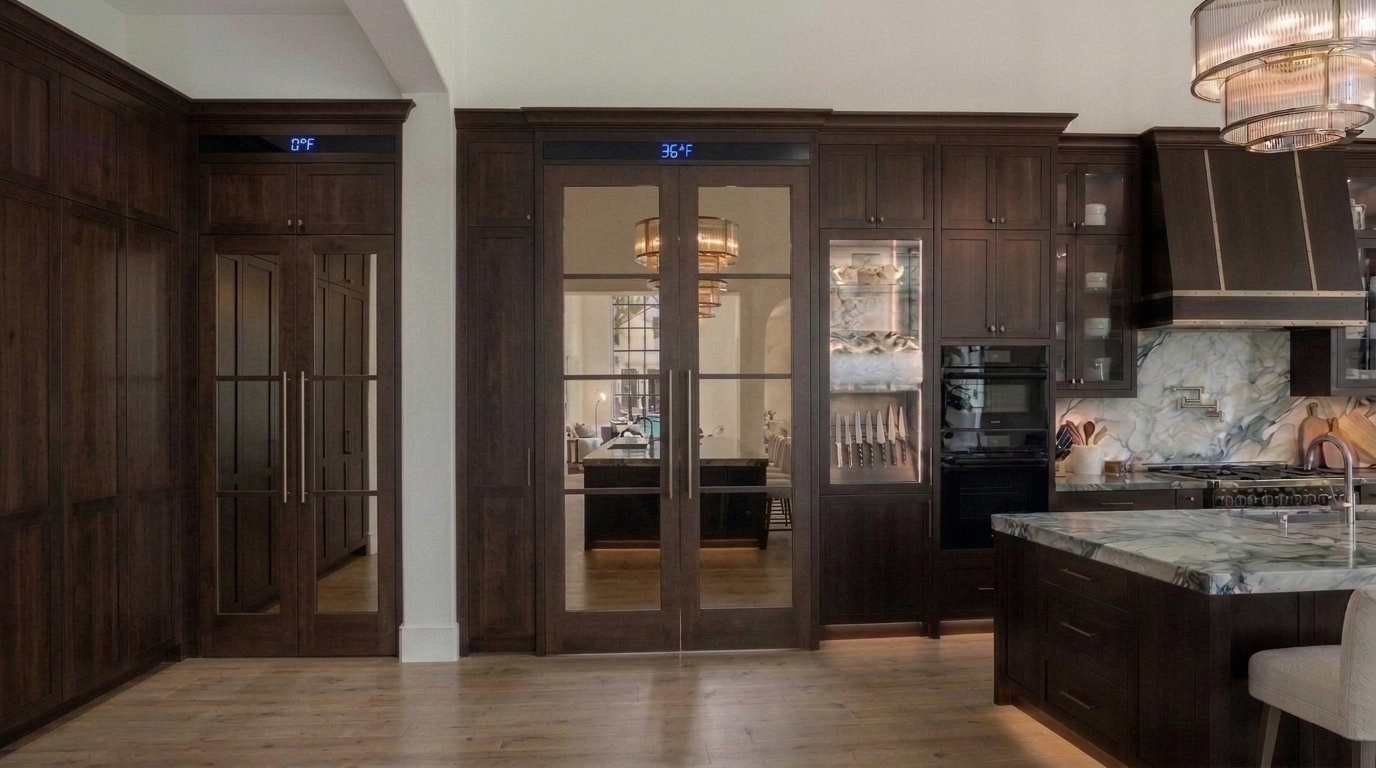
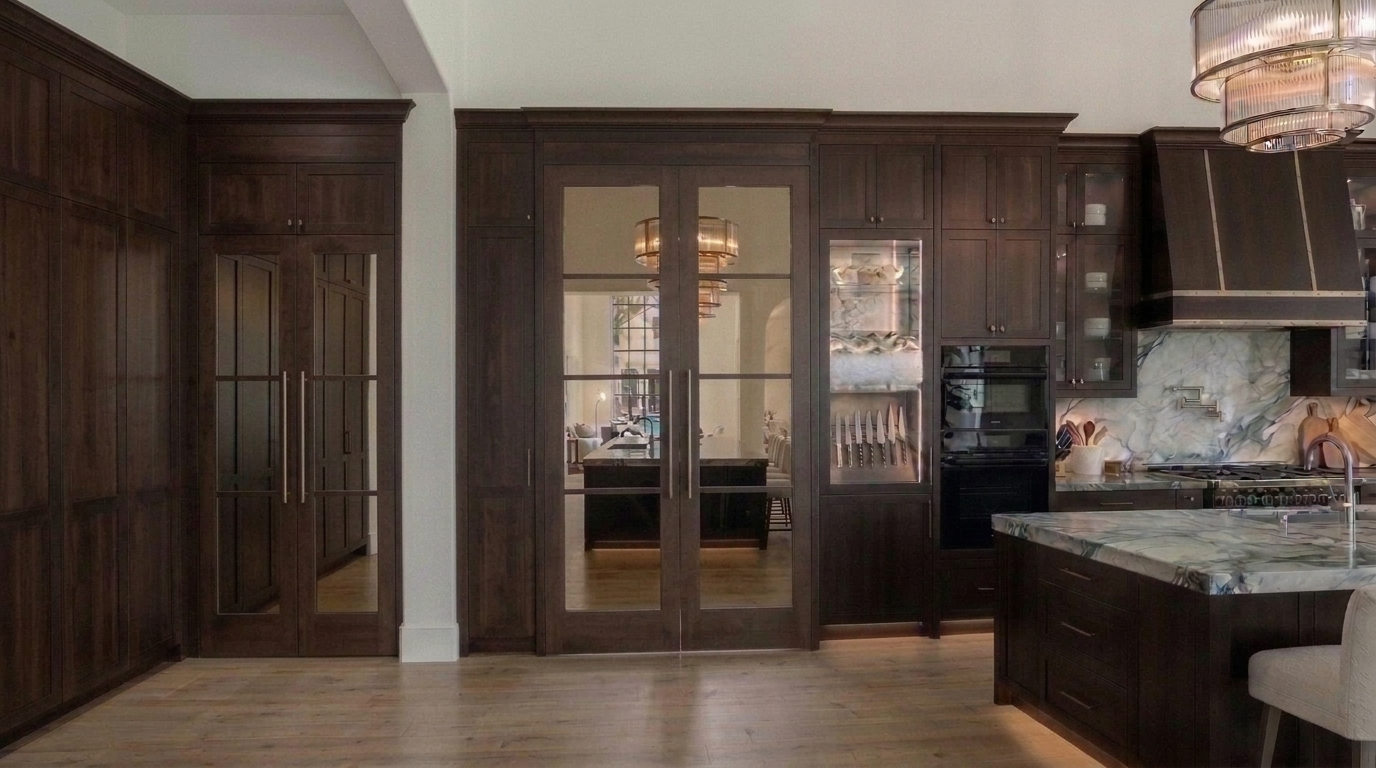
Turn off overhead 0F and 36F digital temperature readout lights when the freezer and walk-in refrigerator doors are closed

Changed region(s): [[0.1562, 0.1562, 0.2812, 0.2188], [0.4062, 0.1562, 0.5938, 0.2188]]

diff --git a/estate_interactive_lookbook_standalone.html b/estate_interactive_lookbook_standalone.html
@@ -1299,15 +1299,15 @@
         ]
       },
       {
-        src: "static/images/01a_living_room_great_room.jpg?v=mirror_fridge_doors_v2",
+        src: "static/images/01a_living_room_great_room.jpg?v=no_temp_lights_v11",
         category: "level1",
-        zone: "Level 1 (Open First Floor: 24' Great Hall ➔ Kitchen — TV & Mirror Walk-In Fridge Closed)",
-        badge: "Level 1 • Soaring 24' Great Hall (Concealed TV Credenza Closed) Looking Into Dark Cherry Kitchen (Two-Way Mirror Walk-In Fridge Closed With Interior Lights OFF)",
-        title: "Open First Floor View 1 (Daily Closed Mode) — Soaring 24-Foot Gallery-White Great Hall (With the True-to-Scale 90\" W × 48\" H Fluted Oak & Travertine Concealed TV Credenza Closed) Looking Into the Dark Cherry Kitchen (With the 14' Walk-In Refrigerator's Two-Way Mirror Doors Closed & Interior Lights OFF)",
-        dims: "38' × 28' Soaring 24' Great Hall • Concealed TV Credenza (Closed) • 14' Walk-In Refrigerator (Closed Mirror Doors, Lights OFF)",
-        desc: "Directly incorporating the soaring open first-floor architecture from the Instagram video (https://www.instagram.com/p/DcL3q3doXhq/): a 24-foot gallery-white Great Hall with towering two-story arched matte-black steel multi-pane cathedral windows, wide-plank and herringbone European white-oak floors, and the true-to-scale 90\" W × 48\" H fluted white-oak and Roman travertine Concealed TV Credenza in its sleek retracted daily state between the curved ivory bouclé sofa and the camel leather daybed—looking straight through the wide-open floor-to-ceiling matte-black steel and glass Crittall sliding grid partition into your Dark Cherry / Mahogany Chef's Kitchen where the 8'6\"-tall French doors of the 14-foot-deep Walk-In Refrigerator (36°F) are closed with their interior lights OFF, turning the door panes into sleek smoked-bronze mirrors.",
+        zone: "Level 1 (Open First Floor: 24' Great Hall ➔ Kitchen — TV & Mirror Walk-In Fridge Closed, Temp Lights OFF)",
+        badge: "Level 1 • Soaring 24' Great Hall (Concealed TV Credenza Closed) Looking Into Dark Cherry Kitchen (Two-Way Mirror Walk-In Fridge Closed With Interior & Temperature Lights OFF)",
+        title: "Open First Floor View 1 (Daily Closed Mode) — Soaring 24-Foot Gallery-White Great Hall (With the True-to-Scale 90\" W × 48\" H Fluted Oak & Travertine Concealed TV Credenza Closed) Looking Into the Dark Cherry Kitchen (With the 14' Walk-In Refrigerator's Two-Way Mirror Doors Closed & Both Interior Lights and Overhead Temperature Lights OFF)",
+        dims: "38' × 28' Soaring 24' Great Hall • Concealed TV Credenza (Closed) • 14' Walk-In Refrigerator (Closed Mirror Doors, All Lights OFF)",
+        desc: "Directly incorporating the soaring open first-floor architecture from the Instagram video (https://www.instagram.com/p/DcL3q3doXhq/): a 24-foot gallery-white Great Hall with towering two-story arched matte-black steel multi-pane cathedral windows, wide-plank and herringbone European white-oak floors, and the true-to-scale 90\" W × 48\" H fluted white-oak and Roman travertine Concealed TV Credenza in its sleek retracted daily state between the curved ivory bouclé sofa and the camel leather daybed—looking straight through the wide-open floor-to-ceiling matte-black steel and glass Crittall sliding grid partition into your Dark Cherry / Mahogany Chef's Kitchen where the 8'6\"-tall French doors of the 14-foot-deep Walk-In Refrigerator are closed with both their interior lights and overhead temperature readout lights switched 100% OFF.",
         highlights: [
-          "Two-Way Mirror Walk-In Fridge Doors (Interior Lights OFF When Closed) + Concealed TV Credenza Closed: When the Walk-In Refrigerator doors on the left of the kitchen wall are closed, the interior cold-room lights switch off automatically so the insulated glass panels act like sleek smoked-bronze mirrors beneath the 36°F readout.",
+          "Two-Way Mirror Walk-In Fridge Doors (Interior & Overhead Temperature Lights OFF When Closed) + Concealed TV Credenza Closed: When the Walk-In Refrigerator doors on the left of the kitchen wall are closed, both the interior cold-room lights and the overhead 36°F digital readout switch off automatically so the insulated glass panels act like sleek smoked-bronze mirrors beneath a clean, unlit dark cherry wood frieze.",
           "3 Wall-Free Zones Around a Single Square Structural Pier: (1) Right Foreground Window Lounge with curved ivory bouclé sofa & striped round coffee table on checkered wool rug; (2) Center Midground Lounge with camel leather daybed & nested organic travertine coffee tables; and (3) Left Midground Open 12-Seat Natural Oak Formal Dining Hall.",
           "Floor-to-Ceiling Black-Steel Crittall Sliding Partition Opening to Dark Cherry Kitchen: Center multi-pane glass panels slide wide open to reveal your Dark Cherry / Mahogany Chef's Kitchen, 22-foot Calacatta Verde/Viola marble island, 60\" range, 32°F Oyster Raw Bar, and China Cabinet Secret Door."
         ]
@@ -1341,15 +1341,15 @@
         ]
       },
       {
-        src: "static/images/01_great_room_kitchen.jpg?v=mirror_fridge_doors_v2",
+        src: "static/images/01_great_room_kitchen.jpg?v=no_temp_lights_v11",
         category: "level1",
-        zone: "Level 1 (Chef's Kitchen Close-Up — Two-Way Mirror Walk-In Refrigerator Closed on Left, 22' Island & Crittall Wall)",
-        badge: "Level 1 • Preserved Dark Cherry / Mahogany Kitchen With the Custom 36°F Walk-In Refrigerator's Two-Way Mirror Doors Closed Flush on the Left Wall (Interior Lights OFF)",
-        title: "Open First Floor View 3 (Chef's Kitchen Wide View — Two-Way Mirror Walk-In Refrigerator Closed on Far Left With Interior Lights OFF) — Custom Built-In Dark Cherry 36°F Walk-In Refrigerator With 8'6\" Smoked-Bronze Mirror French Doors Closed on the Far Left, 60\" Range, 22-Foot Calacatta Verde/Viola Island & Concealed TV Credenza in the Great Hall",
-        dims: "36' × 26' Dark Cherry Kitchen • Built-In 36°F Walk-In Refrigerator (Closed Mirror Doors, Lights OFF) • 22' Calacatta Verde/Viola Island",
-        desc: "Wide architectural view of your preserved 36' × 26' open-concept Elite Chef's Kitchen looking toward the Back-of-Home Pool Doors—showing the Custom Built-In Dark Cherry / Mahogany Walk-In Refrigerator (36°F) on the far-left wall in its sleek CLOSED state: just like the Instagram video (De9XZ39x8aN), the interior cold-room lights turn completely OFF when the doors close so the towering 8'6\" dark-cherry French doors act as sleek smoked-bronze mirrors reflecting the tiered ribbed-glass chandelier, the marble island, and the warm oak floor. To its right sit the 60\" black-and-brass range, the built-in China Cabinet secret Speakeasy door next to the Back Pool Doors, the 22-foot Calacatta Verde/Viola marble island in the center, and on the right through the open Crittall glass partition, the Camel Leather Daybed and the 90\" W × 48\" H Fluted Oak & Travertine Concealed TV Credenza.",
+        zone: "Level 1 (Chef's Kitchen Close-Up — Two-Way Mirror Walk-In Refrigerator Closed on Left, Temp Light OFF)",
+        badge: "Level 1 • Preserved Dark Cherry / Mahogany Kitchen With the Custom Walk-In Refrigerator's Two-Way Mirror Doors Closed Flush on the Left Wall (Interior & Temperature Lights OFF)",
+        title: "Open First Floor View 3 (Chef's Kitchen Wide View — Two-Way Mirror Walk-In Refrigerator Closed on Far Left With Interior & Temperature Lights OFF) — Custom Built-In Dark Cherry Walk-In Refrigerator With 8'6\" Smoked-Bronze Mirror French Doors Closed on the Far Left, 60\" Range, 22-Foot Calacatta Verde/Viola Island & Concealed TV Credenza in the Great Hall",
+        dims: "36' × 26' Dark Cherry Kitchen • Built-In Walk-In Refrigerator (Closed Mirror Doors, All Lights OFF) • 22' Calacatta Verde/Viola Island",
+        desc: "Wide architectural view of your preserved 36' × 26' open-concept Elite Chef's Kitchen looking toward the Back-of-Home Pool Doors—showing the Custom Built-In Dark Cherry / Mahogany Walk-In Refrigerator on the far-left wall in its sleek CLOSED state: both the interior cold-room lights and the overhead digital temperature readout turn completely OFF when the doors close, so the towering 8'6\" dark-cherry French doors act as sleek smoked-bronze mirrors beneath a clean, unlit dark cherry wood frieze. To its right sit the 60\" black-and-brass range, the built-in China Cabinet secret Speakeasy door next to the Back Pool Doors, the 22-foot Calacatta Verde/Viola marble island in the center, and on the right through the open Crittall glass partition, the Camel Leather Daybed and the 90\" W × 48\" H Fluted Oak & Travertine Concealed TV Credenza.",
         highlights: [
-          "Two-Way Mirror Walk-In Refrigerator Doors (Interior Lights OFF When Closed — Far-Left Wall): Because the interior lights only come on when the door opens, the closed 8'6\" dark-cherry French doors look like sleek smoked-bronze mirrors beneath the 36°F LED readout, reflecting the kitchen chandelier and island.",
+          "Two-Way Mirror Walk-In Refrigerator Doors (Interior & Overhead Temperature Lights OFF When Closed — Far-Left Wall): Because both the interior lights and the digital temperature readout only come on when the doors open, the closed 8'6\" dark-cherry French doors look like sleek smoked-bronze mirrors beneath a clean, solid dark cherry wood frieze.",
           "Extra-Long 22-Foot Calacatta Verde / Viola Stone Slab Island, Built-In China Cabinet Secret Door & Back-of-Home Pool View: Monumental single-span stone slab on a dark cherry / mahogany base with warm LED toe-kick lighting, 6 plush cream upholstered barstools, tiered fluted-glass & brass drum chandelier, 60\" black-and-brass range, and the built-in dark cherry China Cabinet secret door next to the back pool doors.",
           "Seamless Indoor-Outdoor & Great Hall Flow on the Right: Floor-to-ceiling matte-black steel & glass Crittall sliding grid partition wall opens directly to the Barrel-Vaulted Pearlescent Moroccan Zellige-Tile Loggia, the Resort Swimming Pool, and the soaring 24-foot Great Hall (showing the Concealed TV Credenza between the Daybed and Curved Bouclé Sofa)."
         ]
@@ -1845,17 +1845,17 @@
         ]
       },
       {
-        src: "static/images/01f_kitchen_walk_in_refrigerator_closed.jpg?v=freezer_and_fridge_v10",
+        src: "static/images/01f_kitchen_walk_in_refrigerator_closed.jpg?v=no_temp_lights_v11",
         category: "level1",
-        zone: "Level 1 (Chef's Kitchen — Built-In 0°F Freezer on Left of Pillar + 36°F 14' Walk-In Refrigerator on Right of Pillar — BOTH CLOSED Like Mirrors, Lights OFF)",
-        badge: "Level 1 • Built-In 0°F Freezer Unit (Left of Pillar) + 36°F 14-Foot-Deep Walk-In Refrigerator (Right of Pillar) — CLOSED State With Two-Way Mirror Doors & Interior Lights OFF",
-        title: "Custom Built-In Dark Cherry / Mahogany 0°F Freezer Unit (Left of Pillar) + 36°F 14-Foot-Deep Walk-In Refrigerator (Right of Pillar) — CLOSED State Where Interior Lights Turn OFF So Both Sets of Doors Look Like Sleek Two-Way Smoked-Bronze Mirrors",
-        dims: "0°F Built-In Freezer (Left of Pillar) + 36°F Walk-In Cold Room (Right of Pillar) • Two-Way Smoked-Bronze Mirror Doors (Interior Lights OFF When Closed)",
-        desc: "Exact 1:1 matching view showing both the Custom Built-In 0°F Freezer Unit (left of the white pillar) and the 36°F 14-Foot-Deep Walk-In Refrigerator (right of the white pillar) with their twin 8'6\"-tall dark cherry French doors CLOSED flush: when closed, the interior lights in both the 0°F Freezer and the 36°F Walk-In Refrigerator switch 100% OFF automatically, transforming all 8 glass panes on each unit into sleek, opaque two-way smoked-bronze mirrors that reflect the tiered ribbed-glass chandelier, the 22-foot Calacatta marble island, and the warm oak floor.",
+        zone: "Level 1 (Chef's Kitchen — Built-In 0°F Freezer on Left of Pillar + 36°F 14' Walk-In Refrigerator on Right of Pillar — BOTH CLOSED Like Mirrors, Interior & Temperature Lights OFF)",
+        badge: "Level 1 • Built-In Freezer Unit (Left of Pillar) + 14-Foot-Deep Walk-In Refrigerator (Right of Pillar) — CLOSED State With Two-Way Mirror Doors & Both Interior and Overhead Temperature Lights OFF",
+        title: "Custom Built-In Dark Cherry / Mahogany Freezer Unit (Left of Pillar) + 14-Foot-Deep Walk-In Refrigerator (Right of Pillar) — CLOSED State Where Both the Interior Lights and the Overhead Digital Temperature Readout Lights Turn OFF So Both Units Look Like Sleek Two-Way Smoked-Bronze Mirrors",
+        dims: "Built-In Freezer (Left of Pillar) + Walk-In Cold Room (Right of Pillar) • Two-Way Smoked-Bronze Mirror Doors (Interior & Temperature Lights OFF When Closed)",
+        desc: "Exact 1:1 matching view showing both the Custom Built-In Freezer Unit (left of the white pillar) and the 14-Foot-Deep Walk-In Refrigerator (right of the white pillar) with their twin 8'6\"-tall dark cherry French doors CLOSED flush: when closed, both the interior cold-room lights AND the overhead 0°F / 36°F digital temperature readout lights in the dark cherry wood frieze switch 100% OFF automatically—leaving clean, uninterrupted dark cherry wood headers above and transforming all 8 glass panes on each unit into sleek, opaque two-way smoked-bronze mirrors that reflect the tiered ribbed-glass chandelier, the 22-foot Calacatta marble island, and the warm oak floor.",
         highlights: [
-          "Matching Two-Way Smoked-Bronze Mirror Doors on Both Sides of the Pillar: With the interior lights OFF when closed, both the 0°F Built-In Freezer (left of pillar) and the 36°F Walk-In Refrigerator (right of pillar) present identical, seamless dark-cherry and smoked-bronze mirror facades.",
-          "1:1 Matching Open vs. Closed Comparison (Compare Slide 40 & Slide 41): Toggle between Slide 40 (Both Open — Interior Lights ON) and Slide 41 (Both Closed — Interior Lights OFF, Mirror Finish) to see the exact transformation.",
-          "Preserves 100% of the Main Cooking Wall: Placing the 0°F Built-In Freezer on the left side of the pillar keeps the 32°F Chilled Oyster Raw Bar, Miele double ovens, 60\" black-and-brass range, and China Cabinet secret door completely untouched."
+          "Both Interior Lights & Overhead Temperature Readout Lights Turn 100% OFF When Closed: When the doors close on the Freezer (left of pillar) and Walk-In Refrigerator (right of pillar), the 0°F and 36°F digital displays above the doors turn completely off along with the interior LEDs, presenting clean dark-cherry wood headers and smoked-bronze mirror doors.",
+          "1:1 Matching Open vs. Closed Comparison (Compare Slide 40 & Slide 41): Toggle between Slide 40 (Both Open — Interior & 0°F / 36°F Readout Lights ON) and Slide 41 (Both Closed — Interior & Temperature Lights OFF, Mirror Finish) to see the exact transformation.",
+          "Preserves 100% of the Main Cooking Wall: Placing the Built-In Freezer on the left side of the pillar keeps the illuminated 32°F Chilled Oyster Raw Bar, Miele double ovens, 60\" black-and-brass range, and China Cabinet secret door completely untouched."
         ]
       }
     ];

diff --git a/index.html b/index.html
@@ -1299,15 +1299,15 @@
         ]
       },
       {
-        src: "static/images/01a_living_room_great_room.jpg?v=mirror_fridge_doors_v2",
+        src: "static/images/01a_living_room_great_room.jpg?v=no_temp_lights_v11",
         category: "level1",
-        zone: "Level 1 (Open First Floor: 24' Great Hall ➔ Kitchen — TV & Mirror Walk-In Fridge Closed)",
-        badge: "Level 1 • Soaring 24' Great Hall (Concealed TV Credenza Closed) Looking Into Dark Cherry Kitchen (Two-Way Mirror Walk-In Fridge Closed With Interior Lights OFF)",
-        title: "Open First Floor View 1 (Daily Closed Mode) — Soaring 24-Foot Gallery-White Great Hall (With the True-to-Scale 90\" W × 48\" H Fluted Oak & Travertine Concealed TV Credenza Closed) Looking Into the Dark Cherry Kitchen (With the 14' Walk-In Refrigerator's Two-Way Mirror Doors Closed & Interior Lights OFF)",
-        dims: "38' × 28' Soaring 24' Great Hall • Concealed TV Credenza (Closed) • 14' Walk-In Refrigerator (Closed Mirror Doors, Lights OFF)",
-        desc: "Directly incorporating the soaring open first-floor architecture from the Instagram video (https://www.instagram.com/p/DcL3q3doXhq/): a 24-foot gallery-white Great Hall with towering two-story arched matte-black steel multi-pane cathedral windows, wide-plank and herringbone European white-oak floors, and the true-to-scale 90\" W × 48\" H fluted white-oak and Roman travertine Concealed TV Credenza in its sleek retracted daily state between the curved ivory bouclé sofa and the camel leather daybed—looking straight through the wide-open floor-to-ceiling matte-black steel and glass Crittall sliding grid partition into your Dark Cherry / Mahogany Chef's Kitchen where the 8'6\"-tall French doors of the 14-foot-deep Walk-In Refrigerator (36°F) are closed with their interior lights OFF, turning the door panes into sleek smoked-bronze mirrors.",
+        zone: "Level 1 (Open First Floor: 24' Great Hall ➔ Kitchen — TV & Mirror Walk-In Fridge Closed, Temp Lights OFF)",
+        badge: "Level 1 • Soaring 24' Great Hall (Concealed TV Credenza Closed) Looking Into Dark Cherry Kitchen (Two-Way Mirror Walk-In Fridge Closed With Interior & Temperature Lights OFF)",
+        title: "Open First Floor View 1 (Daily Closed Mode) — Soaring 24-Foot Gallery-White Great Hall (With the True-to-Scale 90\" W × 48\" H Fluted Oak & Travertine Concealed TV Credenza Closed) Looking Into the Dark Cherry Kitchen (With the 14' Walk-In Refrigerator's Two-Way Mirror Doors Closed & Both Interior Lights and Overhead Temperature Lights OFF)",
+        dims: "38' × 28' Soaring 24' Great Hall • Concealed TV Credenza (Closed) • 14' Walk-In Refrigerator (Closed Mirror Doors, All Lights OFF)",
+        desc: "Directly incorporating the soaring open first-floor architecture from the Instagram video (https://www.instagram.com/p/DcL3q3doXhq/): a 24-foot gallery-white Great Hall with towering two-story arched matte-black steel multi-pane cathedral windows, wide-plank and herringbone European white-oak floors, and the true-to-scale 90\" W × 48\" H fluted white-oak and Roman travertine Concealed TV Credenza in its sleek retracted daily state between the curved ivory bouclé sofa and the camel leather daybed—looking straight through the wide-open floor-to-ceiling matte-black steel and glass Crittall sliding grid partition into your Dark Cherry / Mahogany Chef's Kitchen where the 8'6\"-tall French doors of the 14-foot-deep Walk-In Refrigerator are closed with both their interior lights and overhead temperature readout lights switched 100% OFF.",
         highlights: [
-          "Two-Way Mirror Walk-In Fridge Doors (Interior Lights OFF When Closed) + Concealed TV Credenza Closed: When the Walk-In Refrigerator doors on the left of the kitchen wall are closed, the interior cold-room lights switch off automatically so the insulated glass panels act like sleek smoked-bronze mirrors beneath the 36°F readout.",
+          "Two-Way Mirror Walk-In Fridge Doors (Interior & Overhead Temperature Lights OFF When Closed) + Concealed TV Credenza Closed: When the Walk-In Refrigerator doors on the left of the kitchen wall are closed, both the interior cold-room lights and the overhead 36°F digital readout switch off automatically so the insulated glass panels act like sleek smoked-bronze mirrors beneath a clean, unlit dark cherry wood frieze.",
           "3 Wall-Free Zones Around a Single Square Structural Pier: (1) Right Foreground Window Lounge with curved ivory bouclé sofa & striped round coffee table on checkered wool rug; (2) Center Midground Lounge with camel leather daybed & nested organic travertine coffee tables; and (3) Left Midground Open 12-Seat Natural Oak Formal Dining Hall.",
           "Floor-to-Ceiling Black-Steel Crittall Sliding Partition Opening to Dark Cherry Kitchen: Center multi-pane glass panels slide wide open to reveal your Dark Cherry / Mahogany Chef's Kitchen, 22-foot Calacatta Verde/Viola marble island, 60\" range, 32°F Oyster Raw Bar, and China Cabinet Secret Door."
         ]
@@ -1341,15 +1341,15 @@
         ]
       },
       {
-        src: "static/images/01_great_room_kitchen.jpg?v=mirror_fridge_doors_v2",
+        src: "static/images/01_great_room_kitchen.jpg?v=no_temp_lights_v11",
         category: "level1",
-        zone: "Level 1 (Chef's Kitchen Close-Up — Two-Way Mirror Walk-In Refrigerator Closed on Left, 22' Island & Crittall Wall)",
-        badge: "Level 1 • Preserved Dark Cherry / Mahogany Kitchen With the Custom 36°F Walk-In Refrigerator's Two-Way Mirror Doors Closed Flush on the Left Wall (Interior Lights OFF)",
-        title: "Open First Floor View 3 (Chef's Kitchen Wide View — Two-Way Mirror Walk-In Refrigerator Closed on Far Left With Interior Lights OFF) — Custom Built-In Dark Cherry 36°F Walk-In Refrigerator With 8'6\" Smoked-Bronze Mirror French Doors Closed on the Far Left, 60\" Range, 22-Foot Calacatta Verde/Viola Island & Concealed TV Credenza in the Great Hall",
-        dims: "36' × 26' Dark Cherry Kitchen • Built-In 36°F Walk-In Refrigerator (Closed Mirror Doors, Lights OFF) • 22' Calacatta Verde/Viola Island",
-        desc: "Wide architectural view of your preserved 36' × 26' open-concept Elite Chef's Kitchen looking toward the Back-of-Home Pool Doors—showing the Custom Built-In Dark Cherry / Mahogany Walk-In Refrigerator (36°F) on the far-left wall in its sleek CLOSED state: just like the Instagram video (De9XZ39x8aN), the interior cold-room lights turn completely OFF when the doors close so the towering 8'6\" dark-cherry French doors act as sleek smoked-bronze mirrors reflecting the tiered ribbed-glass chandelier, the marble island, and the warm oak floor. To its right sit the 60\" black-and-brass range, the built-in China Cabinet secret Speakeasy door next to the Back Pool Doors, the 22-foot Calacatta Verde/Viola marble island in the center, and on the right through the open Crittall glass partition, the Camel Leather Daybed and the 90\" W × 48\" H Fluted Oak & Travertine Concealed TV Credenza.",
+        zone: "Level 1 (Chef's Kitchen Close-Up — Two-Way Mirror Walk-In Refrigerator Closed on Left, Temp Light OFF)",
+        badge: "Level 1 • Preserved Dark Cherry / Mahogany Kitchen With the Custom Walk-In Refrigerator's Two-Way Mirror Doors Closed Flush on the Left Wall (Interior & Temperature Lights OFF)",
+        title: "Open First Floor View 3 (Chef's Kitchen Wide View — Two-Way Mirror Walk-In Refrigerator Closed on Far Left With Interior & Temperature Lights OFF) — Custom Built-In Dark Cherry Walk-In Refrigerator With 8'6\" Smoked-Bronze Mirror French Doors Closed on the Far Left, 60\" Range, 22-Foot Calacatta Verde/Viola Island & Concealed TV Credenza in the Great Hall",
+        dims: "36' × 26' Dark Cherry Kitchen • Built-In Walk-In Refrigerator (Closed Mirror Doors, All Lights OFF) • 22' Calacatta Verde/Viola Island",
+        desc: "Wide architectural view of your preserved 36' × 26' open-concept Elite Chef's Kitchen looking toward the Back-of-Home Pool Doors—showing the Custom Built-In Dark Cherry / Mahogany Walk-In Refrigerator on the far-left wall in its sleek CLOSED state: both the interior cold-room lights and the overhead digital temperature readout turn completely OFF when the doors close, so the towering 8'6\" dark-cherry French doors act as sleek smoked-bronze mirrors beneath a clean, unlit dark cherry wood frieze. To its right sit the 60\" black-and-brass range, the built-in China Cabinet secret Speakeasy door next to the Back Pool Doors, the 22-foot Calacatta Verde/Viola marble island in the center, and on the right through the open Crittall glass partition, the Camel Leather Daybed and the 90\" W × 48\" H Fluted Oak & Travertine Concealed TV Credenza.",
         highlights: [
-          "Two-Way Mirror Walk-In Refrigerator Doors (Interior Lights OFF When Closed — Far-Left Wall): Because the interior lights only come on when the door opens, the closed 8'6\" dark-cherry French doors look like sleek smoked-bronze mirrors beneath the 36°F LED readout, reflecting the kitchen chandelier and island.",
+          "Two-Way Mirror Walk-In Refrigerator Doors (Interior & Overhead Temperature Lights OFF When Closed — Far-Left Wall): Because both the interior lights and the digital temperature readout only come on when the doors open, the closed 8'6\" dark-cherry French doors look like sleek smoked-bronze mirrors beneath a clean, solid dark cherry wood frieze.",
           "Extra-Long 22-Foot Calacatta Verde / Viola Stone Slab Island, Built-In China Cabinet Secret Door & Back-of-Home Pool View: Monumental single-span stone slab on a dark cherry / mahogany base with warm LED toe-kick lighting, 6 plush cream upholstered barstools, tiered fluted-glass & brass drum chandelier, 60\" black-and-brass range, and the built-in dark cherry China Cabinet secret door next to the back pool doors.",
           "Seamless Indoor-Outdoor & Great Hall Flow on the Right: Floor-to-ceiling matte-black steel & glass Crittall sliding grid partition wall opens directly to the Barrel-Vaulted Pearlescent Moroccan Zellige-Tile Loggia, the Resort Swimming Pool, and the soaring 24-foot Great Hall (showing the Concealed TV Credenza between the Daybed and Curved Bouclé Sofa)."
         ]
@@ -1845,17 +1845,17 @@
         ]
       },
       {
-        src: "static/images/01f_kitchen_walk_in_refrigerator_closed.jpg?v=freezer_and_fridge_v10",
+        src: "static/images/01f_kitchen_walk_in_refrigerator_closed.jpg?v=no_temp_lights_v11",
         category: "level1",
-        zone: "Level 1 (Chef's Kitchen — Built-In 0°F Freezer on Left of Pillar + 36°F 14' Walk-In Refrigerator on Right of Pillar — BOTH CLOSED Like Mirrors, Lights OFF)",
-        badge: "Level 1 • Built-In 0°F Freezer Unit (Left of Pillar) + 36°F 14-Foot-Deep Walk-In Refrigerator (Right of Pillar) — CLOSED State With Two-Way Mirror Doors & Interior Lights OFF",
-        title: "Custom Built-In Dark Cherry / Mahogany 0°F Freezer Unit (Left of Pillar) + 36°F 14-Foot-Deep Walk-In Refrigerator (Right of Pillar) — CLOSED State Where Interior Lights Turn OFF So Both Sets of Doors Look Like Sleek Two-Way Smoked-Bronze Mirrors",
-        dims: "0°F Built-In Freezer (Left of Pillar) + 36°F Walk-In Cold Room (Right of Pillar) • Two-Way Smoked-Bronze Mirror Doors (Interior Lights OFF When Closed)",
-        desc: "Exact 1:1 matching view showing both the Custom Built-In 0°F Freezer Unit (left of the white pillar) and the 36°F 14-Foot-Deep Walk-In Refrigerator (right of the white pillar) with their twin 8'6\"-tall dark cherry French doors CLOSED flush: when closed, the interior lights in both the 0°F Freezer and the 36°F Walk-In Refrigerator switch 100% OFF automatically, transforming all 8 glass panes on each unit into sleek, opaque two-way smoked-bronze mirrors that reflect the tiered ribbed-glass chandelier, the 22-foot Calacatta marble island, and the warm oak floor.",
+        zone: "Level 1 (Chef's Kitchen — Built-In 0°F Freezer on Left of Pillar + 36°F 14' Walk-In Refrigerator on Right of Pillar — BOTH CLOSED Like Mirrors, Interior & Temperature Lights OFF)",
+        badge: "Level 1 • Built-In Freezer Unit (Left of Pillar) + 14-Foot-Deep Walk-In Refrigerator (Right of Pillar) — CLOSED State With Two-Way Mirror Doors & Both Interior and Overhead Temperature Lights OFF",
+        title: "Custom Built-In Dark Cherry / Mahogany Freezer Unit (Left of Pillar) + 14-Foot-Deep Walk-In Refrigerator (Right of Pillar) — CLOSED State Where Both the Interior Lights and the Overhead Digital Temperature Readout Lights Turn OFF So Both Units Look Like Sleek Two-Way Smoked-Bronze Mirrors",
+        dims: "Built-In Freezer (Left of Pillar) + Walk-In Cold Room (Right of Pillar) • Two-Way Smoked-Bronze Mirror Doors (Interior & Temperature Lights OFF When Closed)",
+        desc: "Exact 1:1 matching view showing both the Custom Built-In Freezer Unit (left of the white pillar) and the 14-Foot-Deep Walk-In Refrigerator (right of the white pillar) with their twin 8'6\"-tall dark cherry French doors CLOSED flush: when closed, both the interior cold-room lights AND the overhead 0°F / 36°F digital temperature readout lights in the dark cherry wood frieze switch 100% OFF automatically—leaving clean, uninterrupted dark cherry wood headers above and transforming all 8 glass panes on each unit into sleek, opaque two-way smoked-bronze mirrors that reflect the tiered ribbed-glass chandelier, the 22-foot Calacatta marble island, and the warm oak floor.",
         highlights: [
-          "Matching Two-Way Smoked-Bronze Mirror Doors on Both Sides of the Pillar: With the interior lights OFF when closed, both the 0°F Built-In Freezer (left of pillar) and the 36°F Walk-In Refrigerator (right of pillar) present identical, seamless dark-cherry and smoked-bronze mirror facades.",
-          "1:1 Matching Open vs. Closed Comparison (Compare Slide 40 & Slide 41): Toggle between Slide 40 (Both Open — Interior Lights ON) and Slide 41 (Both Closed — Interior Lights OFF, Mirror Finish) to see the exact transformation.",
-          "Preserves 100% of the Main Cooking Wall: Placing the 0°F Built-In Freezer on the left side of the pillar keeps the 32°F Chilled Oyster Raw Bar, Miele double ovens, 60\" black-and-brass range, and China Cabinet secret door completely untouched."
+          "Both Interior Lights & Overhead Temperature Readout Lights Turn 100% OFF When Closed: When the doors close on the Freezer (left of pillar) and Walk-In Refrigerator (right of pillar), the 0°F and 36°F digital displays above the doors turn completely off along with the interior LEDs, presenting clean dark-cherry wood headers and smoked-bronze mirror doors.",
+          "1:1 Matching Open vs. Closed Comparison (Compare Slide 40 & Slide 41): Toggle between Slide 40 (Both Open — Interior & 0°F / 36°F Readout Lights ON) and Slide 41 (Both Closed — Interior & Temperature Lights OFF, Mirror Finish) to see the exact transformation.",
+          "Preserves 100% of the Main Cooking Wall: Placing the Built-In Freezer on the left side of the pillar keeps the illuminated 32°F Chilled Oyster Raw Bar, Miele double ovens, 60\" black-and-brass range, and China Cabinet secret door completely untouched."
         ]
       }
     ];

diff --git a/docs/main_home_interior_design_concept.md b/docs/main_home_interior_design_concept.md
@@ -52,8 +52,8 @@ flowchart TB
 ### C2. Dedicated Front-On Showcase View (OPEN STATE — Interior Lights Automatically Turn ON in Both Units): Custom Built-In Dark Cherry / Mahogany `0°F` Freezer Unit (Added on the Left Side of the White Pillar) + `36°F` 14-Foot-Deep Walk-In Refrigerator / Cold Room (On the Right Side of the Pillar, Going 100% Straight Back)
 ![Dedicated Front-On Showcase View (OPEN STATE — Interior Lights Automatically Turn ON in Both Units): Custom Built-In Dark Cherry / Mahogany 0°F Freezer Unit on the Left Side of the White Architectural Pillar (Showing Twin 8'6"-Tall Open Dark Cherry French Doors Beneath the 0°F Digital Readout, Illuminated 4000K Stainless-Steel & Frosted-Glass Freezer Shelves Stocked With Artisanal Gelato Pints, Vacuum-Sealed A5 Wagyu Cuts & Frozen Gourmet Provisions, Dual Crystal-Clear Craft Cocktail Ice Sphere & Sonic Nugget Ice Bins, and 3 Lower Pull-Out Deep-Freeze Drawers) Paired With the 36°F 14-Foot-Deep Walk-In Refrigerator on the Right Side of the Pillar (Going 100% Straight Back With Symmetrical Shelving Walls, 24+ Clear Crisper Drawers & Herringbone Walkway), Followed by the 32°F Chilled Oyster Raw Bar, Miele Double Ovens, 60" Black-and-Brass Range & Hood, and 22-Foot Calacatta Verde/Viola Marble Island](/home/brianvinson/.gemini/jetski/brain/96883fd9-49e4-474d-86a1-0423e4655f3f/kitchen_walk_in_refrigerator.jpg)
 
-### C3. Dedicated Front-On Showcase View (CLOSED STATE — Interior Lights OFF So Both the `0°F` Freezer on the Left of the Pillar and the `36°F` Walk-In Refrigerator on the Right of the Pillar Look Like Sleek Two-Way Smoked-Bronze Mirrors): Twin `8'6"` Mirror French Doors Closed Flush on Both Sides of the White Pillar
-![Dedicated Front-On Showcase View (CLOSED STATE — Interior Lights OFF So Both Units Look Like Sleek Two-Way Mirrors): Exact 1:1 Matching View Where Both the Custom Built-In Dark Cherry 0°F Freezer Unit on the Left Side of the White Pillar and the 36°F 14-Foot-Deep Walk-In Refrigerator on the Right Side of the White Pillar Have Their Twin 8'6"-Tall Dark Cherry Framed French Doors Closed Flush Beneath Their 0°F and 36°F Digital Readouts—With Interior Lights Automatically Switched OFF So All 8 Glass Panes on Both Units Act as Opaque Two-Way Smoked-Bronze Mirrors Reflecting the Tiered Ribbed-Glass Chandelier, the Marble Island & the Warm Oak Floor](/home/brianvinson/.gemini/jetski/brain/96883fd9-49e4-474d-86a1-0423e4655f3f/kitchen_walk_in_refrigerator_closed.jpg)
+### C3. Dedicated Front-On Showcase View (CLOSED STATE — Both Interior Lights and Overhead `0°F` / `36°F` Temperature Readout Lights Turn OFF So Both Units Look Like Sleek Two-Way Smoked-Bronze Mirrors): Twin `8'6"` Mirror French Doors Closed Flush on Both Sides of the White Pillar
+![Dedicated Front-On Showcase View (CLOSED STATE — Both Interior Lights and Overhead Temperature Readout Lights OFF): Exact 1:1 Matching View Where Both the Custom Built-In Dark Cherry Freezer Unit on the Left Side of the White Pillar and the 14-Foot-Deep Walk-In Refrigerator on the Right Side of the White Pillar Have Their Twin 8'6"-Tall Dark Cherry Framed French Doors Closed Flush—With Both the Interior Cold-Room Lights and the Overhead 0°F / 36°F Digital Temperature Readout Lights Automatically Switched 100% OFF So the Upper Wood Frieze Is Clean Solid Dark Cherry Wood and All 8 Glass Panes on Both Units Act as Opaque Two-Way Smoked-Bronze Mirrors Reflecting the Tiered Ribbed-Glass Chandelier, the Marble Island & the Warm Oak Floor](/home/brianvinson/.gemini/jetski/brain/96883fd9-49e4-474d-86a1-0423e4655f3f/kitchen_walk_in_refrigerator_closed.jpg)
 
 ### D. Dual-Sided (Bifurcated Twin-Wing) Grand Staircase Rising From the 24-Foot Great Hall & Formal Dining Area — Showing the Concealed TV Credenza Between the Camel Leather Daybed & Curved Ivory Bouclé Sofa in the Right Foreground + Expansive Full-Width Second-Floor Gallery Balcony
 ![Dual-Sided Grand Staircase Rising From the 24-Foot Open First Floor Great Hall — Showing the First-Floor Great Hall in the Foreground (12-Seat Natural Oak Formal Dining Table on the Left; Camel Leather Daybed, True-to-Scale 90" W x 48" H Fluted White-Oak & Roman Travertine Concealed TV Credenza With Raised 85" OLED Screen, and Curved Ivory Bouclé Sofa on the Checkered Rug on the Right), Rising via a Wide Central Flight & Mid-Landing to Two Sweeping Upper Flights and an Expansive Full-Width Upstairs Gallery Balcony](/home/brianvinson/.gemini/jetski/brain/96883fd9-49e4-474d-86a1-0423e4655f3f/dual_sided_grand_staircase.jpg)
